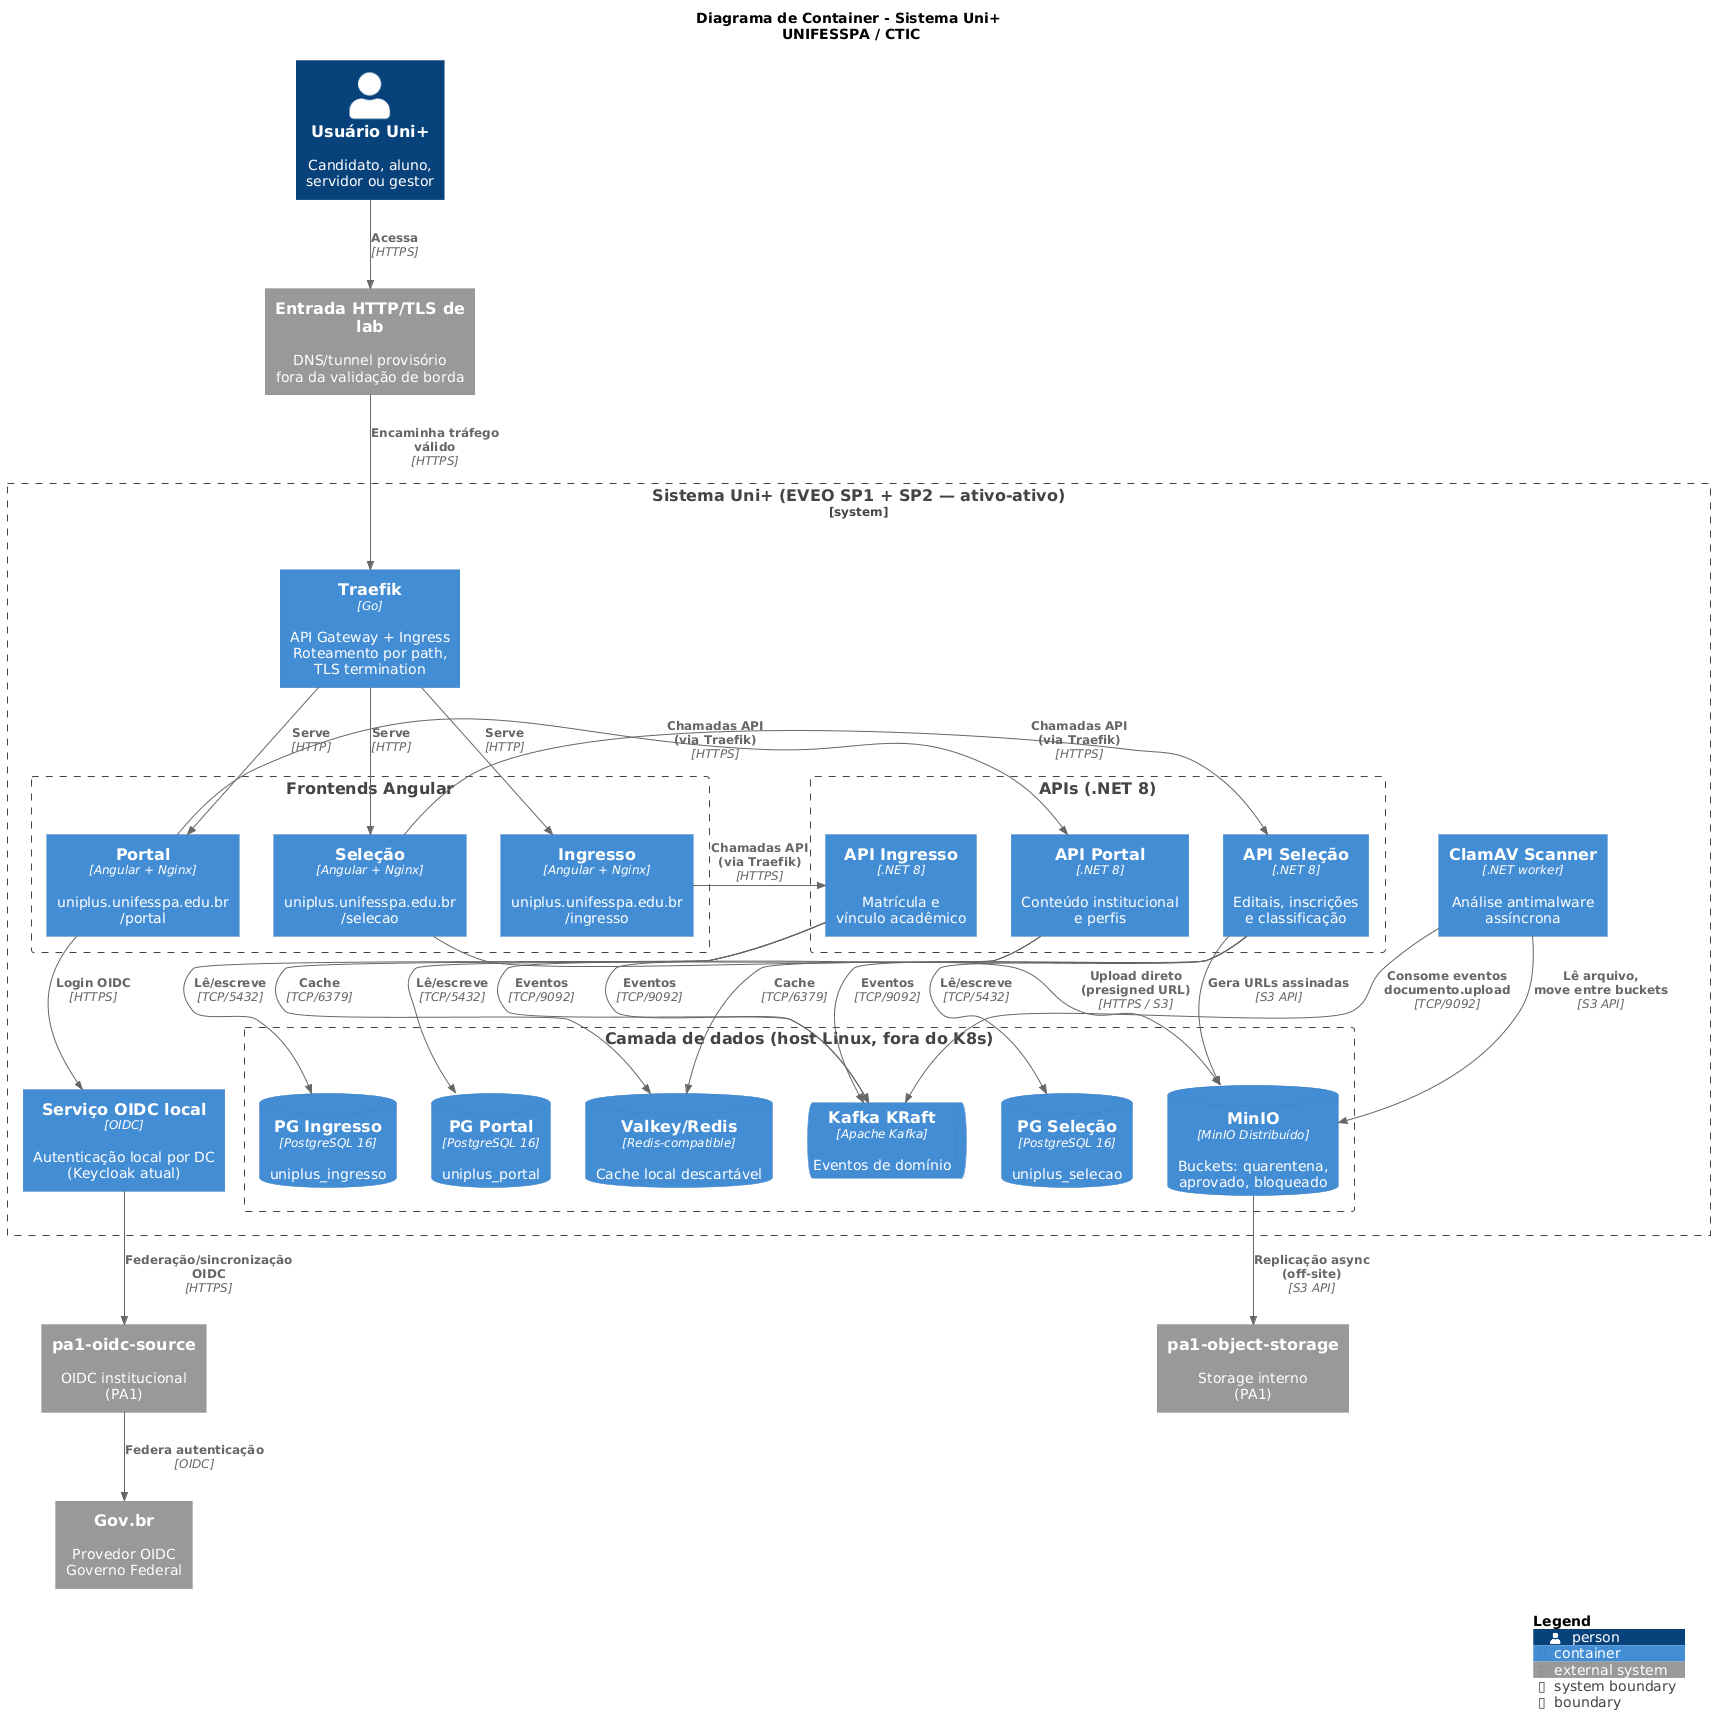
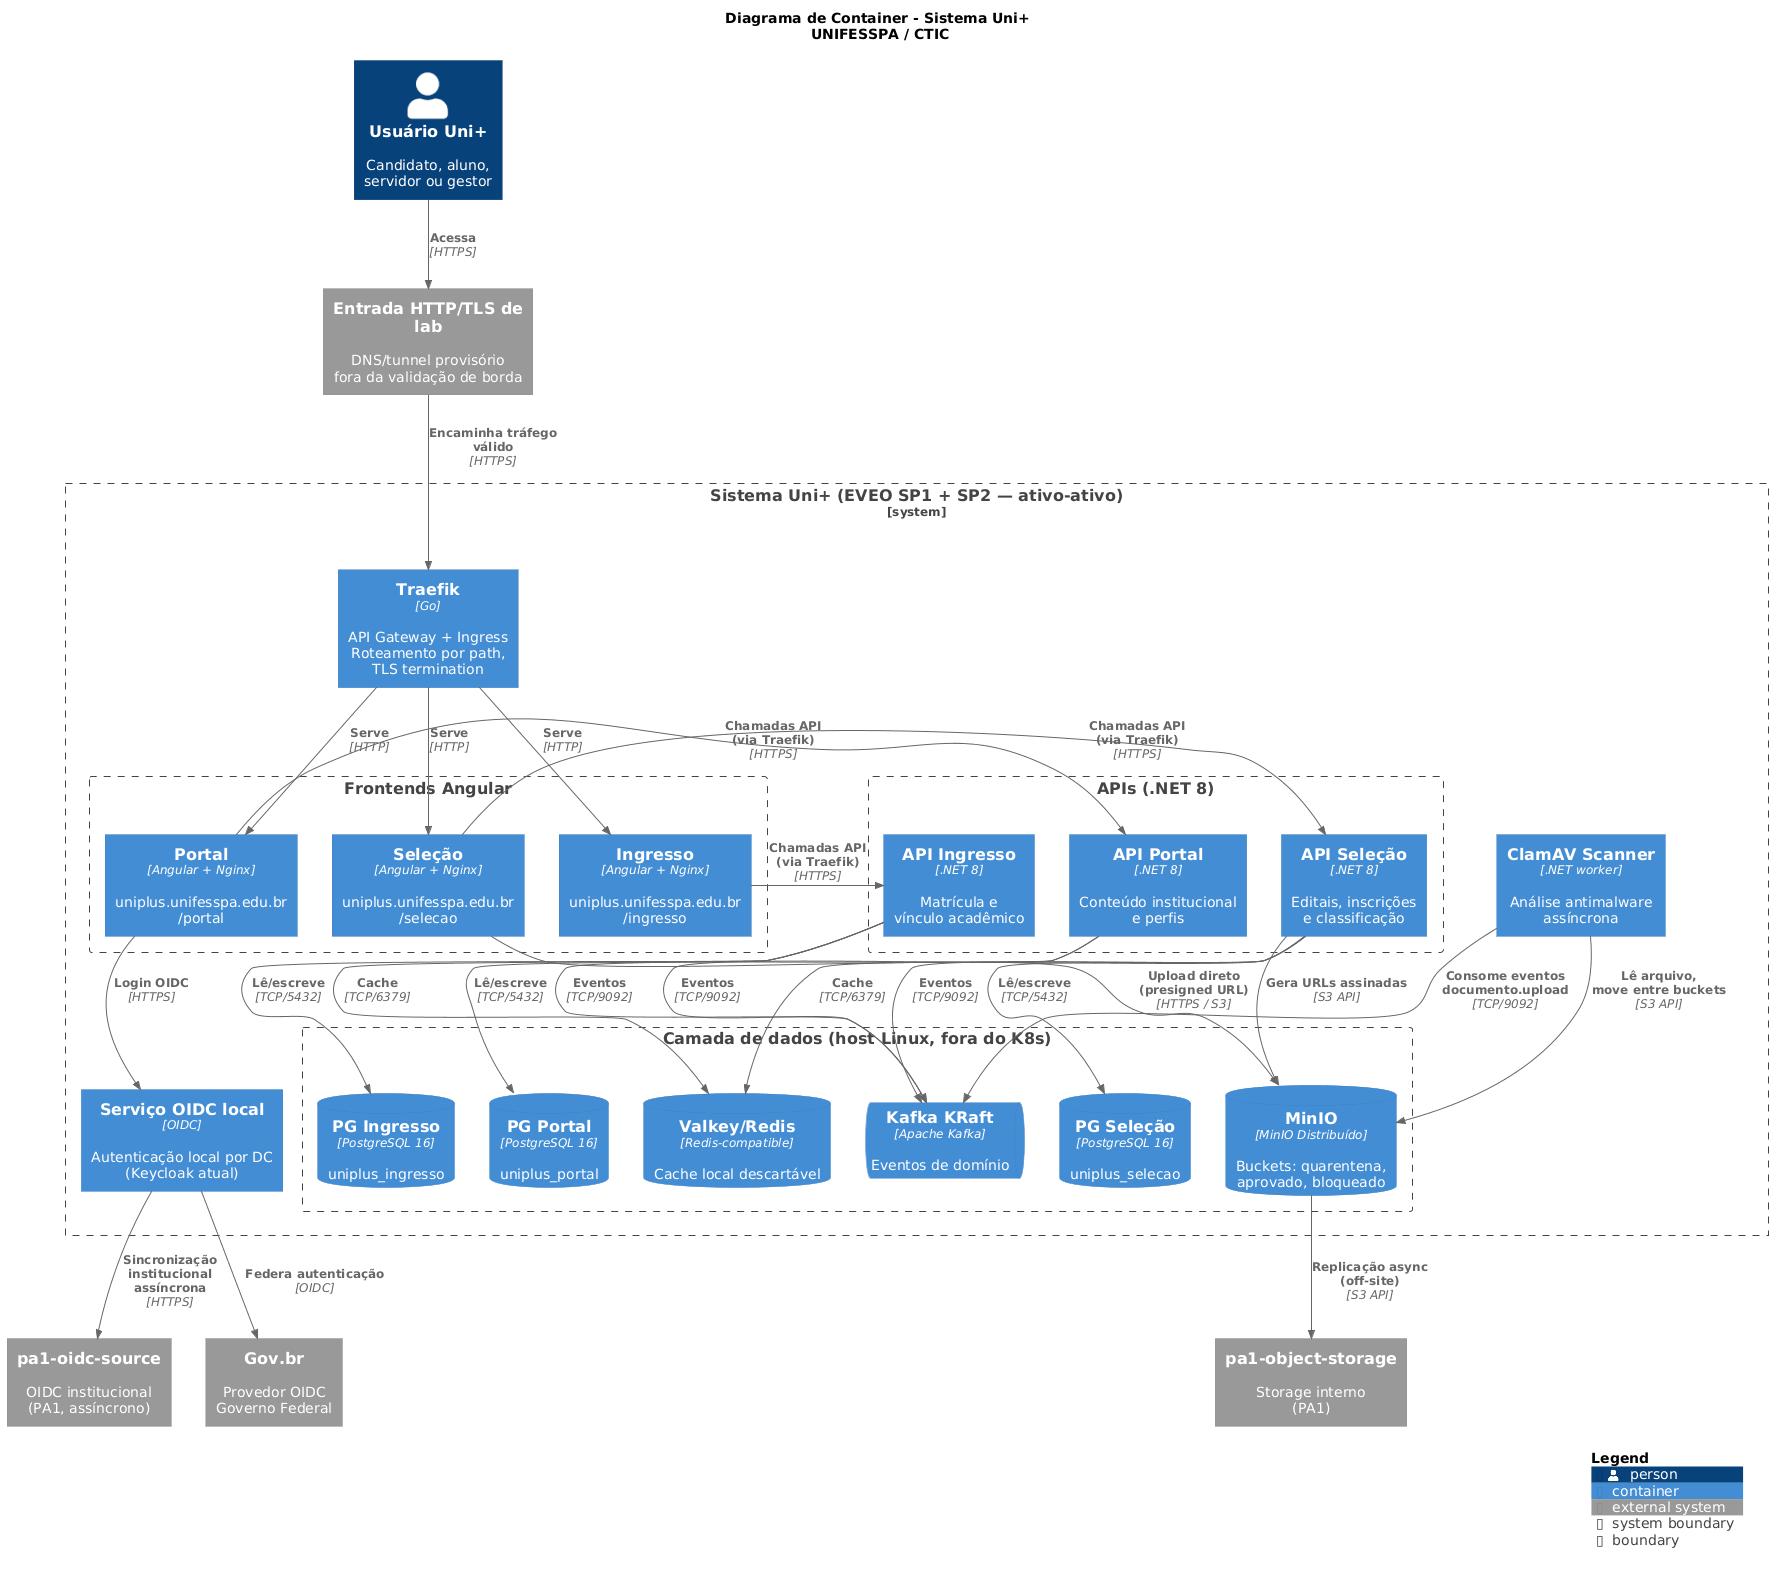
fix: corrigir conectividade pa1 e login oidc

diff --git a/docs/SETUP.md b/docs/SETUP.md
@@ -128,7 +128,7 @@ Em **ambas as máquinas**, edite `/etc/hosts`:
 # /etc/hosts
 192.168.0.10  uniplus-sp1
 192.168.0.20  uniplus-sp2
-192.168.0.21  uniplus-pa1  # IP da bridge interna no container PA1
+192.168.0.20  uniplus-pa1  # PA1 publicado no host i7 no lab
 ```
 
 ### 3.3 Validação de conectividade
@@ -476,12 +476,14 @@ services:
     image: quay.io/coreos/etcd:v3.5
     container_name: uniplus-pa1-consensus
     networks: [unifesspa-sim]
+    ports:
+      - "12379:2379"
     environment:
       - ETCD_NAME=pa1
       - ETCD_INITIAL_ADVERTISE_PEER_URLS=http://172.30.0.10:2380
       - ETCD_LISTEN_PEER_URLS=http://0.0.0.0:2380
       - ETCD_LISTEN_CLIENT_URLS=http://0.0.0.0:2379
-      - ETCD_ADVERTISE_CLIENT_URLS=http://172.30.0.10:2379
+      - ETCD_ADVERTISE_CLIENT_URLS=http://uniplus-pa1:12379
     volumes:
       - pa1-consensus-data:/etcd-data
 
@@ -489,6 +491,8 @@ services:
     image: ghcr.io/unifesspa-edu-br/uniplus-keycloak:1.0.2
     container_name: uniplus-pa1-oidc-source
     networks: [unifesspa-sim]
+    ports:
+      - "18080:8080"
     environment:
       - KEYCLOAK_ADMIN=admin
       - KEYCLOAK_ADMIN_PASSWORD_FILE=/run/secrets/kc_admin
@@ -500,6 +504,9 @@ services:
     image: minio/minio:latest
     container_name: uniplus-pa1-object-storage
     networks: [unifesspa-sim]
+    ports:
+      - "19000:9000"
+      - "19001:9001"
     environment:
       - MINIO_ROOT_USER=admin
       - MINIO_ROOT_PASSWORD_FILE=/run/secrets/minio_admin
@@ -522,12 +529,19 @@ secrets:
 
 ### 9.3 Conectividade SP1/SP2 ↔ PA1
 
-`SP1` e `SP2` precisam alcançar os serviços publicados pelo `PA1` conforme o cenário: backup, object storage, OIDC institucional e função de consenso quando aplicável. No laboratório, isso é feito publicando portas controladas do container `uniplus-pa1` no host i7 e adicionando entradas em `/etc/hosts`:
+`SP1` e `SP2` precisam alcançar os serviços publicados pelo `PA1` conforme o cenário: backup, object storage, OIDC institucional e função de consenso quando aplicável. No laboratório, isso é feito publicando portas controladas dos containers de `PA1` no host i7 e adicionando entradas em `/etc/hosts`:
 
 ```bash
 # /etc/hosts na Ryzen
 192.168.0.20  uniplus-pa1  # IP da máquina i7
 ```
+
+Exemplos de endpoints publicados no lab:
+
+- `uniplus-pa1:12379` → `pa1-consensus-witness` / etcd
+- `uniplus-pa1:18080` → `pa1-oidc-source`
+- `uniplus-pa1:19000` → `pa1-object-storage` API S3
+- `uniplus-pa1:19001` → console administrativo do object storage
 
 O `docker-compose.yml` de `PA1` publica somente as portas necessárias para a validação. Qualquer exposição adicional deve ser justificada no plano de teste.
 

diff --git a/data/postgres/README.md b/data/postgres/README.md
@@ -27,7 +27,7 @@ Esta distribuição balanceia carga de escrita e exercita rotineiramente os meca
 - Docker + Docker Compose instalado no host
 - Volume LVM dedicado em `/var/lib/postgres` (ver [SETUP.md](../../docs/SETUP.md))
 - Conectividade entre nós via L2L (ou LAN no laboratório)
-- `pa1-consensus-witness` acessível em `192.168.0.21:2379` no lab quando Patroni usar consenso externo
+- `pa1-consensus-witness` acessível em `uniplus-pa1:12379` no lab quando Patroni usar consenso externo
 - `pa1-backup` acessível para arquivamento de WAL e backups pgBackRest
 
 ## Estrutura
@@ -67,7 +67,7 @@ etcd3:
   hosts:
     - 192.168.0.10:2379    # SP1
     - 192.168.0.20:2379    # SP2
-    - 192.168.0.21:2379    # PA1 / pa1-consensus-witness
+    - uniplus-pa1:12379    # PA1 / pa1-consensus-witness publicado no host i7
 
 bootstrap:
   dcs:

diff --git a/docs/ARCHITECTURE.md b/docs/ARCHITECTURE.md
@@ -106,7 +106,7 @@ O Uni+ adota ativo-ativo **no nível da plataforma**, não multi-master artifici
 | Sistema | Responsabilidade |
 |---------|-----------------|
 | **Gov.br** | Provedor de identidade do Governo Federal (login único + 2FA) |
-| **pa1-oidc-source** | Origem institucional de identidade/OIDC no PA1; implementação atual usa Keycloak |
+| **pa1-oidc-source** | Origem institucional de metadados de identidade e integração LDAP no PA1; implementação atual usa Keycloak |
 | **LDAP/AD UNIFESSPA** | Diretório institucional de alunos e servidores |
 | **pa1-object-storage** | Storage de objetos institucional para retenção, replicação e DR |
 | **Backup UNIFESSPA** | Infraestrutura interna de backup e DR |

diff --git a/docs/RUNBOOKS.md b/docs/RUNBOOKS.md
@@ -197,7 +197,7 @@ patronictl -c /etc/patroni/patroni.yml switchover \
 1. **Confirmar indisponibilidade do PA1**:
    ```bash
    ping uniplus-pa1
-   curl -k https://auth.uniplus-lab.shop/realms/unifesspa/.well-known/openid-configuration
+   curl -f http://uniplus-pa1:18080/realms/unifesspa/.well-known/openid-configuration
    ```
 2. **Confirmar atendimento por SP1/SP2**:
    ```bash
